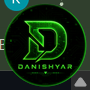
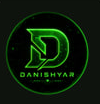
Replace the button and shortcut-fan screenshots, drop the third-party credit
docs/screenshots/button.png and docs/screenshots/shortcut-fan.png were captured off
the live desktop. The fan is a layered window with real transparency, so
CopyFromScreen baked whatever was behind it into the image: ghosted copies of the
orb, a fragment of unrelated UI, and in one capture the words from the shell that
happened to be behind. Both are now clean renders.

Also removed the Hold My Notes / Shobhit credit from the README and QUICKSTART.
DNotes is a from-scratch implementation, so the credit was not a licence obligation,
but the README should not attribute a concept the code does not come from.

diff --git a/README.md b/README.md
@@ -367,13 +367,10 @@ A log, if you ever need one, is at `%APPDATA%\DNotes\dnotes.log`.
 
 ## Credits
 
-Design and logo by **DANISHYAR**. Concept adapted from
-[Hold My Notes](https://holdmynotes.app/) by Shobhit — archive-instead-of-delete, one plain
-file per note, and the keyboard model are all his. The edge-docked deck was his idea too;
-this build drops it in favour of the single floating button, and the
-[roadmap](#roadmap) tracks bringing it back.
+Design and logo by **DANISHYAR**.
 
-This is an independent Windows reimplementation, not an official port.
+Built on the .NET Framework, WinForms and `System.Drawing` — no third-party runtime
+dependencies, and no code from any other project.
 
 ---
 
